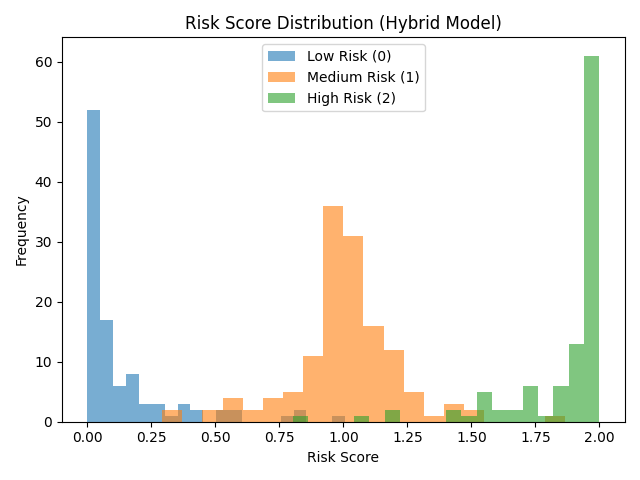
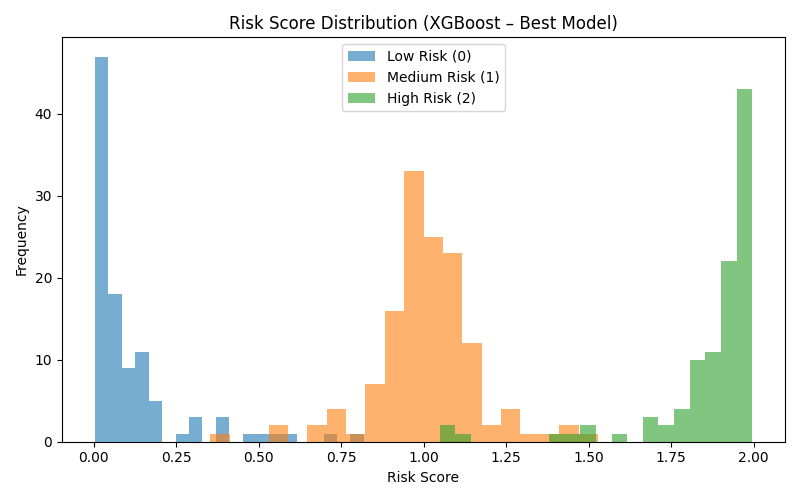
plots added

diff --git a/src/models/plot.py b/src/models/plot.py
@@ -3,7 +3,14 @@ import numpy as np
 import pandas as pd
 import joblib
 import matplotlib.pyplot as plt
-from sklearn.metrics import confusion_matrix, ConfusionMatrixDisplay, f1_score, accuracy_score
+
+from sklearn.metrics import (
+    confusion_matrix,
+    ConfusionMatrixDisplay,
+    accuracy_score,
+    f1_score,
+    recall_score
+)
 
 PROJECT_ROOT = os.path.abspath(os.path.join(os.path.dirname(__file__), "../.."))
 CSV_PATH = os.path.join(PROJECT_ROOT, "outputs", "csv", "dataset.csv")
@@ -12,14 +19,27 @@ FIG_DIR = os.path.join(PROJECT_ROOT, "docs", "figures")
 os.makedirs(FIG_DIR, exist_ok=True)
 
 df = pd.read_csv(CSV_PATH)
+
 X = df.drop(columns=["label", "risk_label", "clip"], errors="ignore")
 y = df["risk_label"] if "risk_label" in df.columns else df["label"]
 
+# Load models & preprocessors
 lr_pipeline = joblib.load(os.path.join(MODEL_DIR, "logistic_regression.pkl"))
 tree = joblib.load(os.path.join(MODEL_DIR, "decision_tree.pkl"))
 hybrid_lr = joblib.load(os.path.join(MODEL_DIR, "hybrid_rule_aug_lr.pkl"))
 preprocess = joblib.load(os.path.join(MODEL_DIR, "preprocess.pkl"))
 rule_encoder = joblib.load(os.path.join(MODEL_DIR, "rule_encoder.pkl"))
+
+xgb_bundle = joblib.load(os.path.join(MODEL_DIR, "xgboost.pkl"))
+xgb = xgb_bundle["model"]
+xgb_imputer = xgb_bundle["imputer"]
+xgb_scaler = xgb_bundle["scaler"]
+
+stack_bundle = joblib.load(os.path.join(MODEL_DIR, "xgb_lr_stack.pkl"))
+stack_xgb = stack_bundle["xgb"]
+stack_meta = stack_bundle["meta_lr"]
+stack_imputer = stack_bundle["imputer"]
+stack_scaler = stack_bundle["scaler"]
 
 # Logistic Regression
 y_pred_lr = lr_pipeline.predict(X)
@@ -28,13 +48,22 @@ y_pred_lr = lr_pipeline.predict(X)
 X_pre = preprocess.transform(X)
 y_pred_dt = tree.predict(X_pre)
 
-# Hybrid model
+# Hybrid Rule-Augmented LR
 leaves = tree.apply(X_pre)
 rule_features = rule_encoder.transform(leaves.reshape(-1, 1))
 X_hybrid = np.hstack([X_pre, rule_features])
 y_pred_hybrid = hybrid_lr.predict(X_hybrid)
 
-# Confusion matrix plots
+# XGBoost
+X_xgb = xgb_scaler.transform(xgb_imputer.transform(X))
+y_pred_xgb = xgb.predict(X_xgb)
+
+# Stacked XGB → LR
+X_stack = stack_scaler.transform(stack_imputer.transform(X))
+stack_probs = stack_xgb.predict_proba(X_stack)
+y_pred_stack = stack_meta.predict(stack_probs)
+
+# Helper: Confusion matrix plot
 def save_confusion(y_true, y_pred, title, filename):
     cm = confusion_matrix(y_true, y_pred)
     disp = ConfusionMatrixDisplay(cm)
@@ -44,35 +73,93 @@ def save_confusion(y_true, y_pred, title, filename):
     plt.savefig(os.path.join(FIG_DIR, filename))
     plt.close()
 
+# Confusion matrices
 save_confusion(y, y_pred_lr, "Logistic Regression", "confusion_lr.png")
 save_confusion(y, y_pred_dt, "Decision Tree", "confusion_dt.png")
 save_confusion(y, y_pred_hybrid, "Hybrid Rule-Augmented LR", "confusion_hybrid.png")
+save_confusion(y, y_pred_xgb, "XGBoost (Best Performance)", "confusion_xgb.png")
+save_confusion(y, y_pred_stack, "XGBoost + LR Stack", "confusion_stack.png")
 
-# Model comparison bar chart
-models = ["Logistic Regression", "Decision Tree", "Hybrid Model"]
+# Accuracy & Macro-F1 comparison
+models = [
+    "Logistic Regression",
+    "Decision Tree",
+    "Hybrid Model",
+    "XGBoost",
+    "XGBoost + LR Stack"
+]
+
 accuracy = [
     accuracy_score(y, y_pred_lr),
     accuracy_score(y, y_pred_dt),
-    accuracy_score(y, y_pred_hybrid)
+    accuracy_score(y, y_pred_hybrid),
+    accuracy_score(y, y_pred_xgb),
+    accuracy_score(y, y_pred_stack)
 ]
+
 macro_f1 = [
     f1_score(y, y_pred_lr, average="macro"),
     f1_score(y, y_pred_dt, average="macro"),
-    f1_score(y, y_pred_hybrid, average="macro")
+    f1_score(y, y_pred_hybrid, average="macro"),
+    f1_score(y, y_pred_xgb, average="macro"),
+    f1_score(y, y_pred_stack, average="macro")
 ]
 
 x = np.arange(len(models))
 width = 0.35
 
-plt.figure()
+plt.figure(figsize=(10, 5))
 plt.bar(x - width/2, accuracy, width, label="Accuracy")
 plt.bar(x + width/2, macro_f1, width, label="Macro F1")
-plt.xticks(x, models, rotation=15)
+plt.xticks(x, models, rotation=20)
 plt.ylabel("Score")
-plt.title("Model Performance Comparison")
+plt.title("Model Performance Comparison (XGBoost Best)")
 plt.legend()
 plt.tight_layout()
 plt.savefig(os.path.join(FIG_DIR, "model_comparison.png"))
 plt.close()
 
-print("Plots saved to docs/figures/")
+# Per-class recall=
+labels = [0, 1, 2]
+
+recall_data = [
+    recall_score(y, y_pred_lr, average=None, labels=labels),
+    recall_score(y, y_pred_dt, average=None, labels=labels),
+    recall_score(y, y_pred_hybrid, average=None, labels=labels),
+    recall_score(y, y_pred_xgb, average=None, labels=labels),
+    recall_score(y, y_pred_stack, average=None, labels=labels)
+]
+
+x = np.arange(len(labels))
+width = 0.15
+
+plt.figure(figsize=(10, 5))
+for i, recalls in enumerate(recall_data):
+    plt.bar(x + (i - 2) * width, recalls, width, label=models[i])
+
+plt.xticks(x, ["Low Risk (0)", "Medium Risk (1)", "High Risk (2)"])
+plt.ylabel("Recall")
+plt.title("Per-Class Recall Comparison")
+plt.ylim(0, 1.0)
+plt.legend()
+plt.tight_layout()
+plt.savefig(os.path.join(FIG_DIR, "recall_per_class.png"))
+plt.close()
+
+# Risk score distribution (BEST MODEL = XGBoost)
+xgb_probs = xgb.predict_proba(X_xgb)
+risk_score = xgb_probs[:, 1] + 2 * xgb_probs[:, 2]
+
+plt.figure(figsize=(8, 5))
+plt.hist(risk_score[y == 0], bins=20, alpha=0.6, label="Low Risk (0)")
+plt.hist(risk_score[y == 1], bins=20, alpha=0.6, label="Medium Risk (1)")
+plt.hist(risk_score[y == 2], bins=20, alpha=0.6, label="High Risk (2)")
+plt.xlabel("Risk Score")
+plt.ylabel("Frequency")
+plt.title("Risk Score Distribution (XGBoost – Best Model)")
+plt.legend()
+plt.tight_layout()
+plt.savefig(os.path.join(FIG_DIR, "risk_score_distribution.png"))
+plt.close()
+
+print("All evaluation plots saved to docs/figures/")
